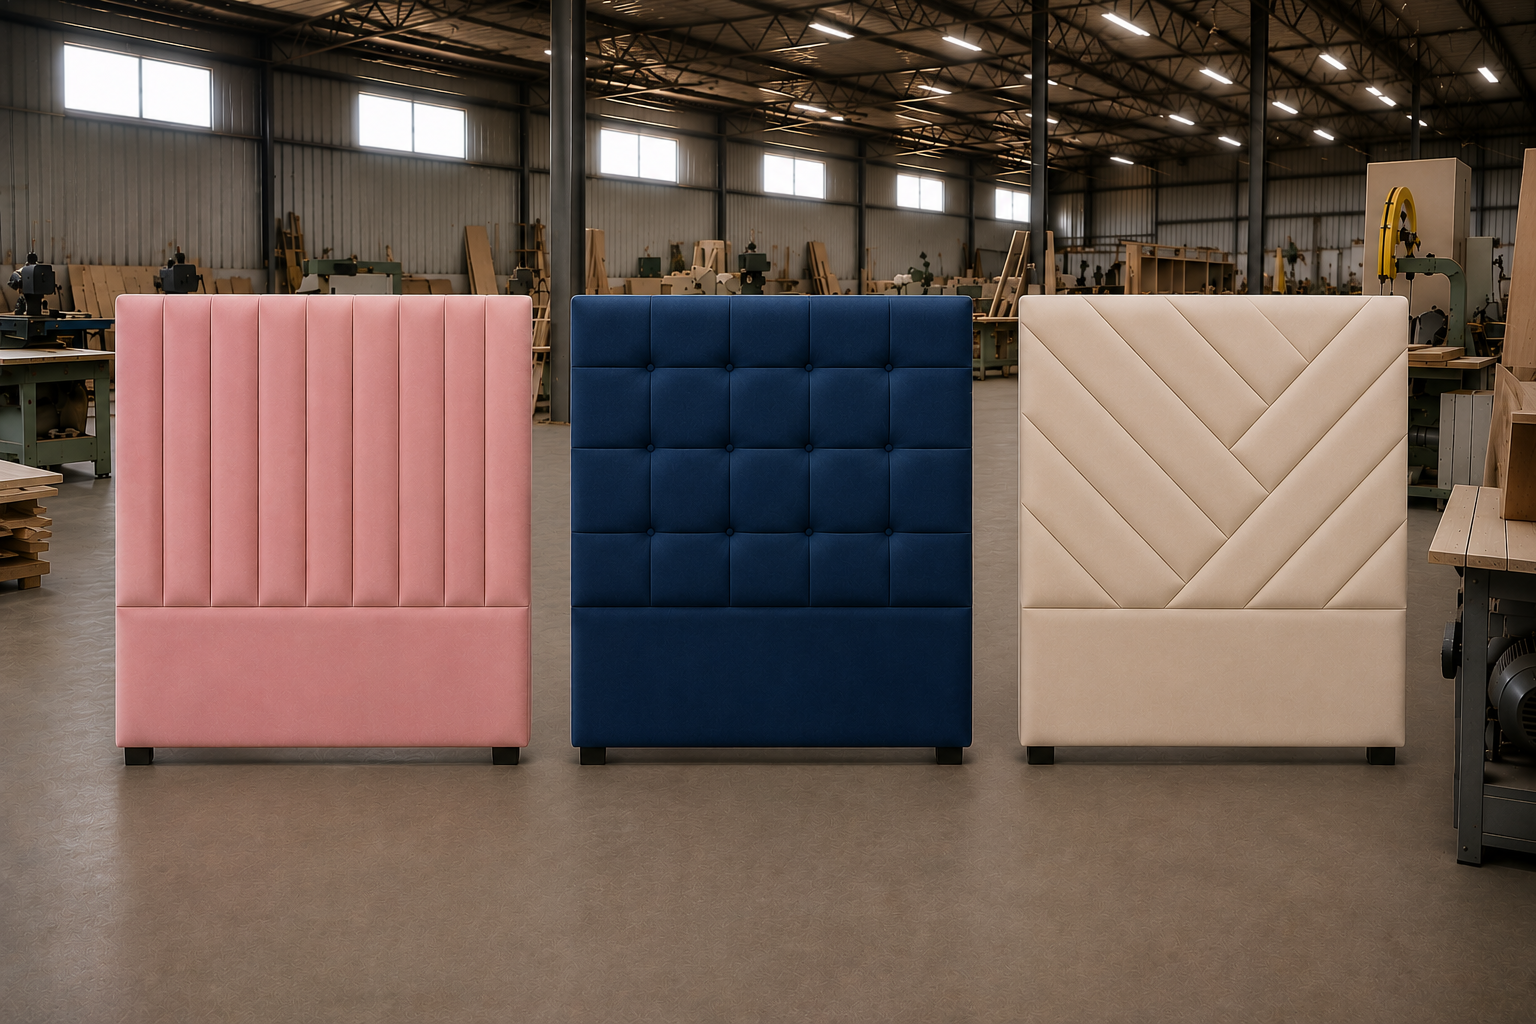
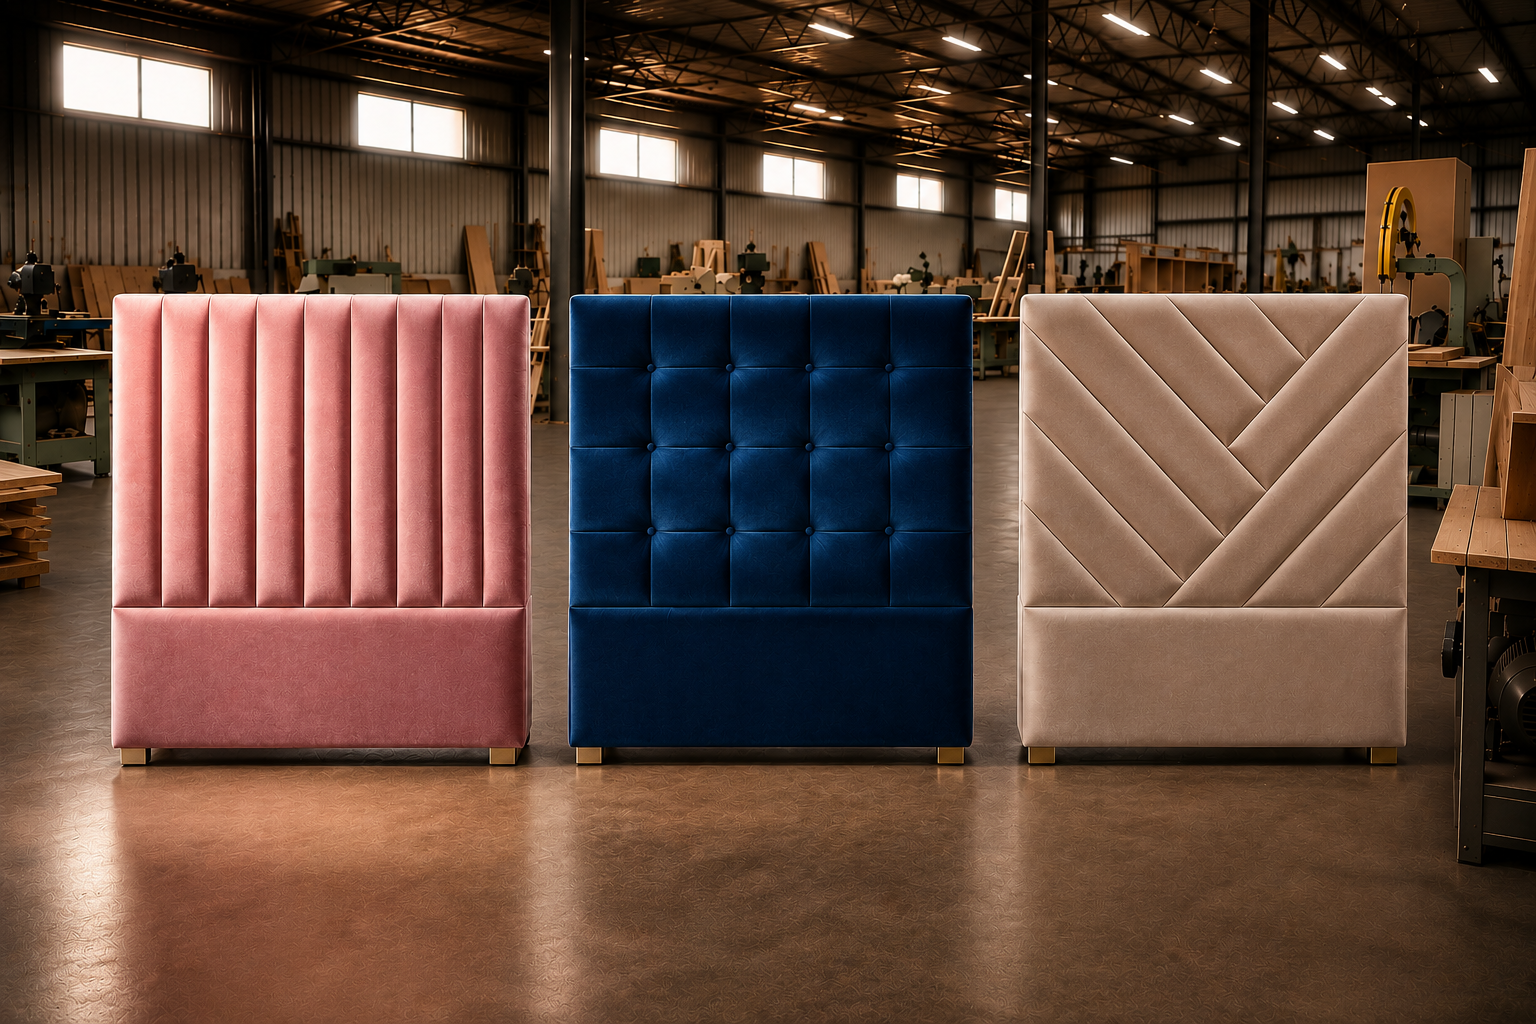
updates

diff --git a/src/pages/Projects.jsx b/src/pages/Projects.jsx
@@ -1,13 +1,13 @@
 import KiddiesHeadboards from "../Images/Projects/kiddies-headboards.png";
-import LuxuryHeadboards from "../Images/Projects/luxury-headboards.png";
 import PulpitsBenches from "../Images/Projects/pulpits-benches.png";
 import SchoolDesk2 from "../Images/Projects/school-desk2.png";
-import TableAndChairs from "../Images/Projects/table-and-chairs.jpg";
-import BarnDoorsGallery from "../Images/Projects/vondwe-barn-doors-gallery.png";
+import WoodEyeStand from "../Images/Projects/eyestand in shop display.png";
+import BlackOpenCloset from "../Images/Projects/black open plan closet.png";
+//import FloatingTvStand from "../Images/Projects/floating tv stand lounge.png";
+
 
 import Headboard from "../Images/Gallery/luxury cream and coffee brown headboard w table.png";
 import Pulpit from "../Images/Gallery/pulpit worshp.png";
-import BedBase from "../Images/Gallery/queen size green head wood base w tables workshop.png";
 import BarStools from "../Images/Gallery/red stool bar workshop.png";
 import Kitchen from "../Images/Gallery/red velvet stools, kitchen.png";
 import DisplayCabinet from "../Images/Gallery/whiteliquor displaycabinet dining room.png";
@@ -30,6 +30,7 @@ import WhiteShelveWardrobe from "../Images/Gallery/white front shelve wardrobe.p
 import VintageCoffeeTable2 from "../Images/Gallery/vintage coffe table 2.png";
 import BathroomHolder from "../Images/Gallery/bathroomholder.png";
 import BlackOpenPlanCloset from "../Images/Gallery/black open plan closet.png";
+import MultiColourBarStools from "../Images/Projects/multi colour stools.png";
 
 function Projects() {
   const projects = [
@@ -37,44 +38,38 @@ function Projects() {
       title: "Kiddies Headboards",
       category: "Bedroom Furniture",
       image: KiddiesHeadboards,
-      description:
-        "Custom-made kiddies headboards designed with comfort, creativity, and quality finishing.",
+      
+        
     },
-    {
-      title: "Luxury Headboards",
-      category: "Bedroom Furniture",
-      image: LuxuryHeadboards,
-      description:
-        "Elegant luxury headboards crafted to bring style and a premium finish to bedroom spaces.",
-    },
+  {
+  title: "Wood Eye Stand",
+  category: "Custom Display Furniture",
+  image: WoodEyeStand,
+},
     {
       title: "Pulpits and Benches",
       category: "Church Furniture",
       image: PulpitsBenches,
-      description:
-        "Strong and beautifully crafted pulpits and benches for churches, halls, and community spaces.",
+      
+        
     },
     {
       title: "School Desks",
       category: "School Furniture",
       image: SchoolDesk2,
-      description:
-        "Durable school desks built for learning environments with practical and long-lasting design.",
+      
+        
     },
     {
-      title: "Table and Chairs",
-      category: "Custom Furniture",
-      image: TableAndChairs,
-      description:
-        "Custom tables and chairs designed for homes, dining spaces, offices, and business use.",
-    },
+  title: "Black Open Closet",
+  category: "Built-in Wardrobes",
+  image: BlackOpenCloset,
+},
     {
-      title: "Barn Doors",
-      category: "Doors & Joinery",
-      image: BarnDoorsGallery,
-      description:
-        "Stylish wooden barn doors crafted with precision, durability, and timeless character.",
-    },
+  title: "Floating TV Stand",
+  category: "Living Room Furniture",
+  image: FloatingTvStand,
+},
 {
   title: "Wooden Bar Stool",
   category: "Custom Furniture",
@@ -104,11 +99,10 @@ function Projects() {
       category: "Church Furniture",
       image: Pulpit,
     },
-    {
-      title: "Queen Bed Base",
-      category: "Bedroom Furniture",
-      image: BedBase,
-    },
+   {
+  title: "Multi Colour Bar Stools",
+  image: MultiColourBarStools,
+},
     {
       title: "Bar Stools",
       category: "Custom Furniture",
@@ -125,9 +119,8 @@ function Projects() {
       image: DisplayCabinet,
     },
 {
-  title: "Eyestand Shop Display",
-  category: "Display Furniture",
-  image: EyeStandDisplay,
+  title: "Dining Set",
+  image: DiningSetLounge,
 },
 {
   title: "Fitted Liquor Display",
@@ -135,18 +128,17 @@ function Projects() {
   image: FittedLiquorDisplay,
 },
 {
-  title: "Floating TV Stand",
-  category: "Living Room Furniture",
-  image: FloatingTvStand,
+  title: "Minimalist Open Closet",
+  image: BlackOpenPlanCloset,
 },
 
 {
-  title: "Grey Chest of Drawers",
+  title: "Black Chest of Drawers",
   category: "Bedroom Furniture",
   image: GreyChestDrawer,
 },
 {
-  title: "Grey Chest of Drawers",
+  title: "Black Chest of Drawers",
   category: "Bedroom Furniture",
   image: GreyChestDrawerWorkshop,
 },